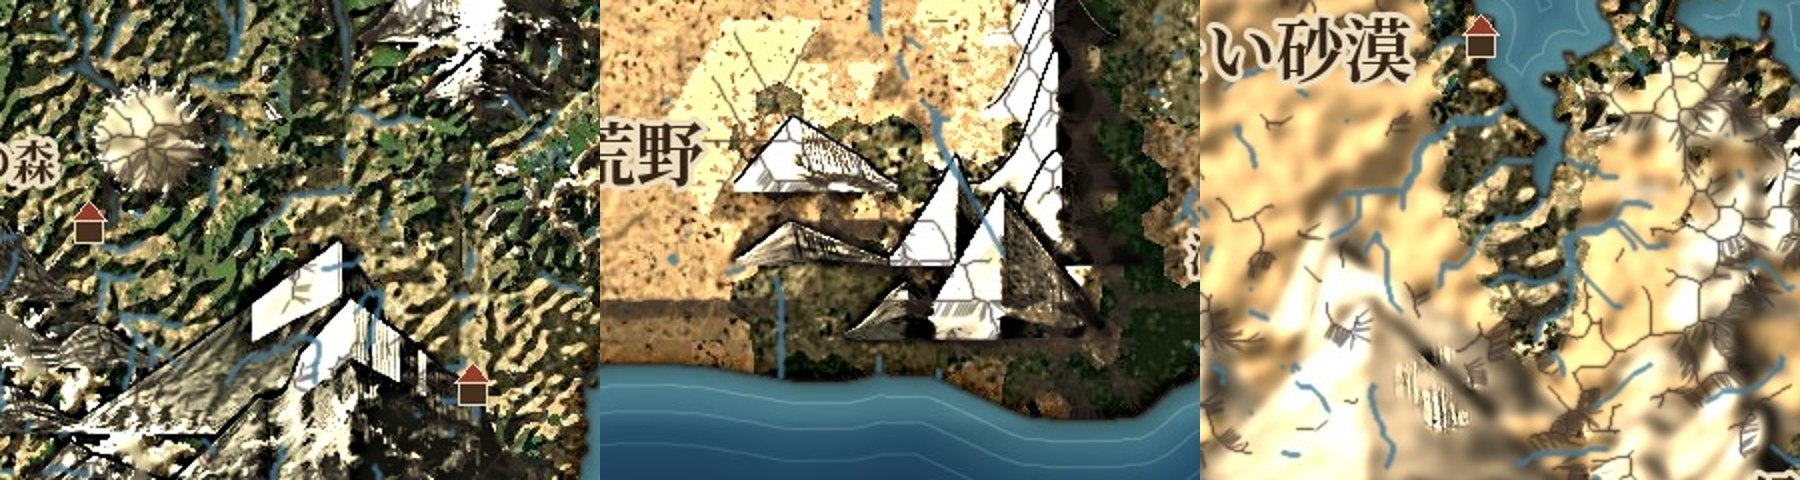
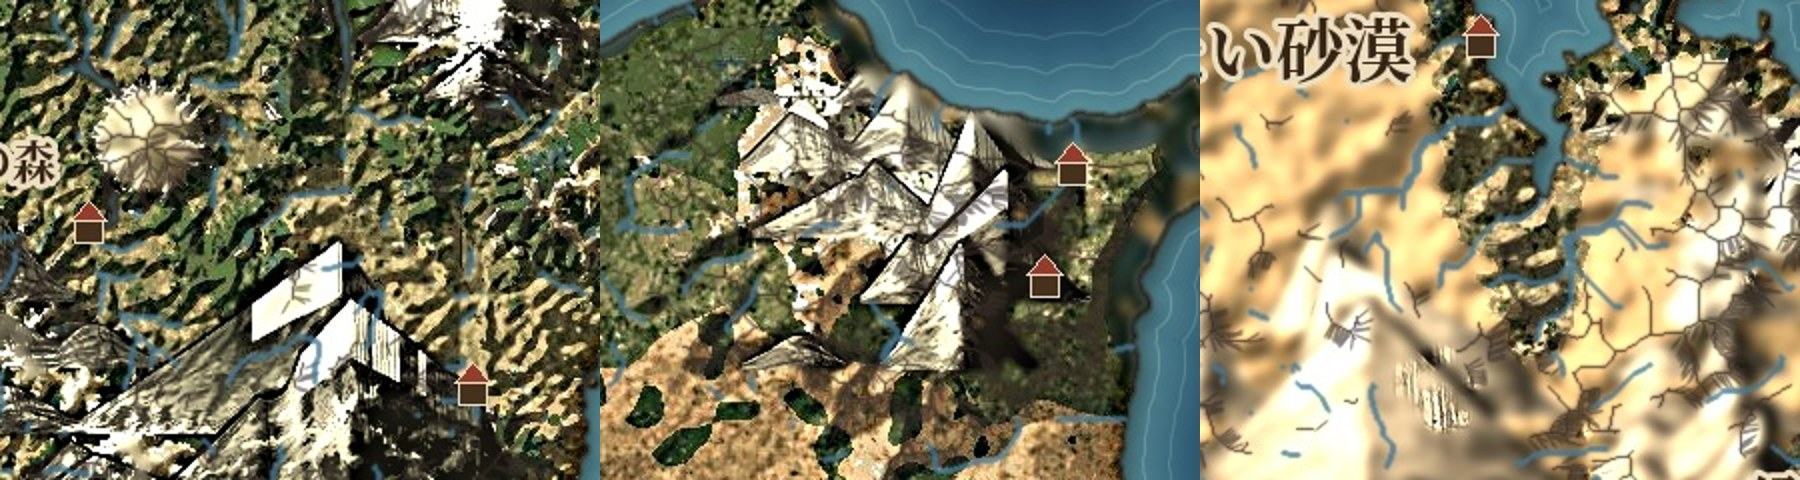
検証: 自作枠をハニカム地図から簡易生成に差し替え
Claude-Session: https://claude.ai/code/session_01NNF75WtqSrNc5QxPaYtfZJ

Changed region(s): [[0.3111, 0.0, 0.6844, 1.0]]

diff --git a/docs/apps/fantasy-war/mapstyle23.html b/docs/apps/fantasy-war/mapstyle23.html
@@ -11,36 +11,36 @@ table{border-collapse:collapse;width:100%;font-size:13px}td,th{border:1px solid 
 </style></head><body><main>
 <p><a href="./">← 管理ページ</a> / <a href="mapstyle22.html">浅瀬を明るくする</a></p>
 <h1>3つの生成器で最新処理を検証</h1>
-<div class="card"><b>概要</b>: Azgaar・PWG・自作の3つで世界を1枚ずつ作り、今の処理(地表→山→稜線つき仕上げ→色彩加算)を<b>世界ごとの手調整なし</b>で当てました。<b>3つとも最後まで通り、処理は1枚あたり約8〜11秒・最大メモリ約770MBで、重くありません</b>。ただし絵の出来にはばらつきがあります(下記)。</div>
+<div class="card"><b>概要</b>: Azgaar・PWG・簡易生成(私が書いた約70行の生成プログラム)の3つで世界を1枚ずつ作り、今の処理(地表→山→稜線つき仕上げ→色彩加算)を<b>世界ごとの手調整なし</b>で当てました。<b>3つとも最後まで通り、処理は1枚あたり約8〜11秒・最大メモリ約770MBで、重くありません</b>。ただし絵の出来にはばらつきがあります(下記)。</div>
 <h2>出来た絵(色彩加算前)</h2>
 <div class="card"><img src="mapstyle/gv/ver_az.jpg" alt="Azgaar"><p class="sub">Azgaar(陸が65%と多く、冷たい砂漠のクリーム色が広い。山はぼやけ気味)</p></div>
 <div class="card"><img src="mapstyle/gv/ver_pwg.jpg" alt="PWG"><p class="sub">PWG(3つの中で一番まとまっている。ただし一部の山に白い四角)</p></div>
-<div class="card"><img src="mapstyle/gv/ver_own.jpg" alt="自作"><p class="sub">自作(六角のマスが粗く、縁がギザギザ。山は白い三角の塊)</p></div>
+<div class="card"><img src="mapstyle/gv/ver_simple.jpg" alt="簡易生成"><p class="sub">簡易生成(「二つの大陸」型。海岸は滑らか。山は白い三角の塊。気候の偏りが少ない)</p></div>
 <h2>時間とメモリ(このクラウド機での実測・各1回)</h2>
 <div class="card"><table>
-<tr><th>段階</th><th>Azgaar</th><th>PWG</th><th>自作</th></tr>
-<tr><td>世界を作る</td><td>約3.5秒(約1.7万セル・メモリ約77MB)</td><td>画面生成待ち約29秒+書き出しで計約77秒(ソフト描画・メモリ約246MB)</td><td>約0.5秒(73回やり直し)</td></tr>
-<tr><td>データ形式への変換</td><td>1.8秒</td><td>0.5秒</td><td>1.5秒</td></tr>
-<tr><td>地表(段階5)</td><td>2.8秒</td><td>2.4秒</td><td>1.9秒</td></tr>
-<tr><td>山(段階14)</td><td>3.5秒</td><td>2.1秒</td><td>2.6秒</td></tr>
-<tr><td>仕上げ(稜線・海・枠)</td><td>4.4秒</td><td>3.0秒</td><td>3.3秒</td></tr>
+<tr><th>段階</th><th>Azgaar</th><th>PWG</th><th>簡易生成</th></tr>
+<tr><td>世界を作る</td><td>約3.5秒(約1.7万セル・メモリ約77MB)</td><td>画面生成待ち約29秒+書き出しで計約77秒(ソフト描画・メモリ約246MB)</td><td>約0.7秒</td></tr>
+<tr><td>データ形式への変換</td><td>1.8秒</td><td>0.5秒</td><td>不要(直接作る)</td></tr>
+<tr><td>地表(段階5)</td><td>2.8秒</td><td>2.4秒</td><td>2.1秒</td></tr>
+<tr><td>山(段階14)</td><td>3.5秒</td><td>2.1秒</td><td>2.1秒</td></tr>
+<tr><td>仕上げ(稜線・海・枠)</td><td>4.4秒</td><td>3.0秒</td><td>4.0秒</td></tr>
 <tr><td>色彩加算</td><td>0.2秒</td><td>0.2秒</td><td>0.2秒</td></tr>
 <tr><td><b>処理の合計</b></td><td><b>約11秒</b></td><td><b>約8秒</b></td><td><b>約8秒</b></td></tr></table>
 <p class="sub">処理側の最大メモリは3つとも約770MB(山の段階が最大)。重いのは処理ではなく、PWGの世界作りです(ブラウザのソフト描画のため)。iPhoneでの実測はしていません。</p></div>
 <h2>汎用性の評価(私の目視。判断はユーザーに)</h2>
-<div class="card"><img src="mapstyle/gv/ver_crops.jpg" alt="拡大"><p class="sub">拡大(左=PWG、中=自作、右=Azgaar)</p>
+<div class="card"><img src="mapstyle/gv/ver_crops.jpg" alt="拡大"><p class="sub">拡大(左=PWG、中=簡易生成、右=Azgaar)</p>
 <ul>
 <li><b>通った点</b>: 3つとも、手調整なしの初期値で最後まで動いた。海・岸・川・稜線・枠・ラベルは3つとも出た。</li>
-<li><b>弱点1(処理側)</b>: 山が、高さがほぼ平らに頭打ちのデータ(PWG・自作)で、<b>直線の辺を持つ白い三角や四角</b>になった(拡大の左・中)。山の絵の描き方が「なだらかな山並み」を前提にしているため、と見ています(推測)。</li>
-<li><b>弱点2(データ側)</b>: 自作は六角マスが約23画素と粗く、縁と群系の境がギザギザ。しかも砂漠が陸の約4割と偏る(生成器の癖)。処理の問題ではなく、データの細かさの問題。</li>
+<li><b>弱点1(処理側)</b>: 山が、PWGと簡易生成の両方で、<b>直線の辺を持つ白い三角や四角</b>の塊になった(拡大の左・中)。簡易生成は高さが滑らかなので、「高さが平らに頭打ち」説は当たらず、<b>山の絵の描き方そのもの</b>の癖と見直しました(訂正)。</li>
+<li><b>弱点2(データ側)</b>: 簡易生成は川・風と雨・国の自然境界・資源がなく、国は乱数の点からの塗り分け。気候は緯度とノイズだけ。見た目の検証用に限り、シミュレーターの土台には不足。</li>
 <li><b>弱点3</b>: Azgaarは国境の線が多く、雪の上の細い網目に見える。冷たい砂漠と氷河が広く、全体がクリーム色で山のコントラストが弱い。</li>
 <li><b>色彩加算</b>: 世界5用のプリセットを3枚にそのままかけた(平均で255段階中7〜10ほど変化)。他の世界用の調整はしていないので、効果の良し悪しは未評価。</li></ul></div>
 <h2>限界・未確認</h2>
 <div class="card"><ul class="sub">
-<li>各1枚だけ(統計にならない)。Azgaarの種は記録していない。PWGは種5101、自作は種100。</li>
+<li>各1枚だけ(統計にならない)。Azgaarの種は記録していない。PWGは種5101、簡易生成は型1(二つの大陸)。</li>
 <li>見た目の評価は目視のみで、数値の物差しは使っていない。</li>
 <li>色彩加算は世界5用の基準のまま。弱点1の山の直しは未着手。</li>
-<li>自作の群系は Azgaar の12区分へ私が対応づけた(砂漠→熱い砂漠、高山→ツンドラ など)。この対応で見た目が変わる。</li></ul></div>
+<li>最初の版はハニカム地図(world.js)を自作枠に使いましたが、構想から外れるため、簡易生成に差し替えました。PWGの群系28種→12区分は私が寄せた対応で、適切さは未確認。</li></ul></div>
 <h2>道具(次から同じ検証を1本で回せる)</h2>
-<div class="card"><p>手順は <a href="mapstyle/tools/README.md">README</a>。書き出し: <a href="mapstyle/tools/export_az.cjs">export_az.cjs</a> / <a href="mapstyle/tools/export_pwg.cjs">export_pwg.cjs</a> / <a href="mapstyle/tools/export_own.cjs">export_own.cjs</a>。形式そろえ: <a href="mapstyle/tools/rasterize.py">rasterize.py</a> / <a href="mapstyle/tools/pwg_convert.py">pwg_convert.py</a>。処理: <a href="mapstyle/tools/run_pipeline.py">run_pipeline.py</a>(時間とメモリを timing.json に記録)。</p></div>
+<div class="card"><p>手順は <a href="mapstyle/tools/README.md">README</a>。書き出し: <a href="mapstyle/tools/export_az.cjs">export_az.cjs</a> / <a href="mapstyle/tools/export_pwg.cjs">export_pwg.cjs</a> / <a href="mapstyle/tools/export_simple.py">export_simple.py</a>。形式そろえ: <a href="mapstyle/tools/rasterize.py">rasterize.py</a>(Azgaar) / <a href="mapstyle/tools/pwg_convert.py">pwg_convert.py</a>(PWG)。処理: <a href="mapstyle/tools/run_pipeline.py">run_pipeline.py</a>(時間とメモリを timing.json に記録)。</p></div>
 </main></body></html>

diff --git a/docs/apps/fantasy-war/mapstyle/tools/export_simple.py b/docs/apps/fantasy-war/mapstyle/tools/export_simple.py
@@ -1,0 +1,70 @@
+# 簡易生成: 画素に直接描く世界(約70行)。世界の型10種(SPEC)。川・国の自然境界・資源は無い(見た目の検証用)。
+# 使い方: python3 export_simple.py <型0〜9> <出力ディレクトリ>   → world-data.png と world-map.jpg
+import numpy as np, cv2, os, json, sys
+from PIL import Image
+from scipy import ndimage as ndi
+W,Hh=1400,900
+def fbm(shape,scale,oct=5,seed=0):
+    r=np.random.RandomState(seed); acc=np.zeros(shape); amp=1; tot=0
+    for o in range(oct):
+        s=max(2,int(scale/(2**o))); small=r.rand(shape[0]//s+2,shape[1]//s+2)
+        acc+=amp*cv2.resize(small,(shape[1],shape[0]),interpolation=cv2.INTER_CUBIC); tot+=amp; amp*=.5
+    return acc/tot
+# 世界の型: 名前, 大陸の塊(位置x,y,半径), 陸の割合, 気温の補正, 湿り気の補正, 山の強さ
+SPEC=[
+ ('一つの大陸',[(0.5,0.5,330)],0.34,0.0,0.0,1.0),
+ ('二つの大陸',[(0.27,0.5,240),(0.72,0.48,260)],0.33,0.0,0.0,1.0),
+ ('群島',[(0.2,0.3,110),(0.4,0.65,130),(0.62,0.35,120),(0.8,0.68,110),(0.5,0.2,90),(0.12,0.7,90)],0.26,0.05,0.1,0.7),
+ ('三日月の大陸',[(0.35,0.35,170),(0.5,0.55,170),(0.65,0.72,170),(0.3,0.58,130)],0.30,0.0,0.0,1.1),
+ ('巨大な一つの大陸',[(0.5,0.5,430)],0.46,0.0,-0.05,1.0),
+ ('寒冷な世界',[(0.4,0.5,280),(0.78,0.4,180)],0.34,-0.28,0.0,1.1),
+ ('乾燥した世界',[(0.45,0.5,320),(0.85,0.6,150)],0.36,0.2,-0.28,0.9),
+ ('湿潤な熱帯の世界',[(0.3,0.45,230),(0.68,0.55,250)],0.35,0.22,0.3,0.8),
+ ('山脈の多い世界',[(0.38,0.5,260),(0.72,0.5,240)],0.34,0.0,0.0,1.7),
+ ('内海のある大陸',[(0.38,0.5,170),(0.62,0.5,170),(0.5,0.3,150),(0.5,0.72,150)],0.36,0.0,0.05,1.1),
+]
+def make(i,outdir):
+    name,blobs,lf,dt,dm,ms=SPEC[i]; sd=100+i*17
+    yy,xx=np.mgrid[0:Hh,0:W]
+    f=np.zeros((Hh,W))
+    for (bx,by,r) in blobs: f+=np.exp(-(((xx-bx*W)**2+(yy-by*Hh)**2)/(2*(r*0.62)**2)))
+    n=fbm((Hh,W),230,6,sd)
+    f=f/ max(f.max(),1)+0.55*(n-0.5)
+    edge=np.clip(np.minimum(np.minimum(xx,W-1-xx)/60,np.minimum(yy,Hh-1-yy)/50),0,1); f=f*edge-(1-edge)*0.5
+    th=np.quantile(f,1-lf); land=f>=th
+    land=ndi.binary_opening(land,iterations=2); lab,nl=ndi.label(land)
+    if nl>1:
+        sz=ndi.sum(land,lab,range(1,nl+1)); keep=[k+1 for k,s in enumerate(sz) if s>=350]; land=np.isin(lab,keep)
+    dist=ndi.distance_transform_edt(land); dsea=ndi.distance_transform_edt(~land)
+    # 山岳: 帯状に連なる山(低周波の帯 × 尾根ノイズ)
+    ridge=1-np.abs(2*fbm((Hh,W),150,5,sd+1)-1); band=fbm((Hh,W),340,3,sd+2)
+    mraw=(band**1.0)*(0.45+0.55*np.clip(ridge,0,1))*np.clip(dist/22,0,1)
+    tf=min(0.09*ms,0.22); q=np.quantile(mraw[land],1-tf*2.2)
+    mm=np.clip((mraw-q)/max(mraw[land].max()-q,1e-6),0,1)**(0.85 if ms<=1 else 0.55)
+    base=20+np.clip(dist/45,0,1)*12+9*(fbm((Hh,W),90,4,sd+3)-0.5)+ 68*mm
+    Hc=np.where(land,np.clip(base,20.5,100),np.clip(20-dsea/6,2,19.5))
+    # 気温・湿り気 → 生物群系(Azgaar番号)
+    lat=yy/Hh; T=dt+0.95*(1-np.abs(lat-0.5)*2)+0.08*(fbm((Hh,W),200,3,sd+4)-0.5)-0.4*np.clip((Hc-20)/80,0,1)
+    M=dm+0.55*fbm((Hh,W),180,4,sd+5)+0.45*np.exp(-dsea*0)*np.clip(1-dist/260,0,1)*0.6+0.25
+    BI=np.zeros((Hh,W),int)
+    hot=T>0.62; warm=(T>0.38)&~hot; cool=(T>0.15)&~warm&~hot
+    BI[hot&(M<0.45)]=1; BI[hot&(M>=0.45)&(M<0.65)]=3; BI[hot&(M>=0.65)&(M<0.8)]=5; BI[hot&(M>=0.8)]=7
+    BI[warm&(M<0.4)]=4; BI[warm&(M>=0.4)&(M<0.62)]=6; BI[warm&(M>=0.62)&(M<0.8)]=6; BI[warm&(M>=0.8)]=8
+    BI[cool&(M<0.4)]=2; BI[cool&(M>=0.4)]=9
+    BI[(T<=0.15)]=10; BI[(T<=0.0)]=11
+    BI[land&(Hc<24)&(M>0.7)&(BI>0)&(T>0.1)]=12
+    BI[~land]=0; BI[land&(BI==0)]=4
+    # 国(ボロノイ)
+    rs=np.random.RandomState(sd); ys,xs=np.nonzero(land); idx=rs.choice(len(ys),11,replace=False)
+    seeds=np.stack([ys[idx],xs[idx]],1); ST=np.zeros((Hh,W),int)
+    d2=((ys[:,None]-seeds[None,:,0])**2+(xs[:,None]-seeds[None,:,1])**2); ST[ys,xs]=d2.argmin(1)+1
+    os.makedirs(outdir,exist_ok=True)
+    dat=np.zeros((Hh,W,3),np.uint8); dat[...,0]=np.clip(Hc*2.55,0,255).astype(np.uint8); dat[...,1]=BI; dat[...,2]=ST
+    Image.fromarray(dat).save(outdir+'/world-data.png')
+    pal={0:(80,140,190),1:(214,190,120),2:(190,180,150),3:(190,180,90),4:(150,180,90),5:(70,140,70),6:(90,150,70),7:(40,120,60),8:(60,120,90),9:(70,110,90),10:(180,190,180),11:(240,245,250),12:(100,150,130)}
+    img=np.zeros((Hh,W,3),np.uint8)
+    for b,c in pal.items(): img[BI==b]=c
+    Image.fromarray(img).save(outdir+'/world-map.jpg',quality=85)
+    return {'name':name,'land':float(land.mean()),'mount':float(((Hc>=66)&land).sum()/land.sum()),'biomes':{int(k):round(float(((BI==k)&land).sum()/land.sum()),3) for k in np.unique(BI[land])}}
+if __name__=='__main__':
+    import time; t=time.time(); r=make(int(sys.argv[1]),sys.argv[2]); r['gen_sec']=round(time.time()-t,2); print(json.dumps(r,ensure_ascii=False))

diff --git a/docs/apps/fantasy-war/mapstyle/tools/rasterize.py b/docs/apps/fantasy-war/mapstyle/tools/rasterize.py
@@ -1,12 +1,10 @@
 # セル(点)ごとの値のJSON → 1400×900 の world-data.png(R=高さ×2.55, G=群系0〜12, B=国)
-# 使い方: python3 rasterize.py <az|own> <入力json> <出力ディレクトリ>
+# 使い方: python3 -I rasterize.py az <入力json> <出力ディレクトリ>   (Azgaarのセル点 → 画素。PWGは pwg_convert.py、簡易生成は export_simple.py が直接作る)
 import sys, json, os, numpy as np
 from PIL import Image
 from scipy.interpolate import LinearNDInterpolator, NearestNDInterpolator
 from scipy import ndimage as ndi
 W, Hh = 1400, 900
-# 自作の群系(0海,1氷雪,2ツンドラ,3亜寒帯林,4寒冷草原,5砂漠,6温暖草原,7地中海性,8温帯林,9温帯海洋林,10サバナ,11熱帯雨林,12高山) → Azgaar番号
-OWN2AZ = {0:0, 1:11, 2:10, 3:9, 4:4, 5:1, 6:4, 7:6, 8:6, 9:8, 10:3, 11:7, 12:10}
 def warp(shape, seed, amp):
     rs = np.random.RandomState(seed)
     out = []
@@ -16,7 +14,7 @@ def warp(shape, seed, amp):
 def run(kind, src, outdir):
     d = json.load(open(src)); x = np.array(d['x'], float); y = np.array(d['y'], float)
     gx, gy = np.meshgrid(np.arange(W), np.arange(Hh))
-    if kind == 'az':
+    if True:
         sx, sy = (W - 1) / d['W'], (Hh - 1) / d['H']; px, py = x * sx, y * sy; ox = oy = 0
         h = np.array(d['h'], float); bio = np.array(d['biome']); st = np.array(d['state'])
         pts = np.stack([px, py], 1)
@@ -28,27 +26,6 @@ def run(kind, src, outdir):
         BI = NearestNDInterpolator(pts, bio)(ix, iy); ST = NearestNDInterpolator(pts, st)(ix, iy)
         land = Hi >= 20
         H = np.where(land, Hi, np.minimum(Hi, 19.5))
-    else:
-        s = (W - 1) / d['W']; px, py = x * s, y * s
-        oy = (Hh - d['H'] * s) / 2; py = py + oy
-        pts = np.stack([px, py], 1)
-        el = np.array(d['elev'], float); lnd = np.array(d['land']).astype(bool)
-        el = np.where(lnd, np.maximum(el, 1.0), np.minimum(el, -1.0))
-        Ei = LinearNDInterpolator(pts, el, fill_value=-4000.0)(gx, gy); Ei = np.where(np.isnan(Ei), -4000.0, Ei)
-        Ei = ndi.gaussian_filter(Ei, 1.0)
-        land = Ei > 0
-        wx, wy = warp(Ei.shape, 5, 9)
-        ix = np.clip(gx + wx, 0, W - 1); iy = np.clip(gy + wy, 0, Hh - 1)
-        bio = np.array([OWN2AZ[int(b)] for b in d['biome']]); bio[~lnd] = 0
-        BI = NearestNDInterpolator(pts, bio)(ix, iy)
-        cont = np.array(d['cont']); ST = NearestNDInterpolator(pts, cont % 250 + 1)(ix, iy)
-        # 陸なのに群系0の画素は最寄りの陸群系で埋める
-        z = land & (BI == 0)
-        if z.any():
-            idx = ndi.distance_transform_edt(BI == 0, return_distances=False, return_indices=True); BI = np.where(z, BI[idx[0], idx[1]], BI)
-        lm = Ei[land]; q = np.quantile(lm, 0.94); mx = lm.max()
-        H = np.where(land, np.where(Ei <= q, 20.3 + 45.7 * np.clip(Ei, 0, None) / q, 66 + 34 * np.clip((Ei - q) / max(mx - q, 1), 0, 1)),
-                     np.clip(19.5 + Ei / 250, 2, 19.5))
     BI = np.where(land, BI, 0)
     os.makedirs(outdir, exist_ok=True)
     dat = np.zeros((Hh, W, 3), np.uint8)

diff --git a/docs/apps/sekai-hex/design/STATE.md b/docs/apps/sekai-hex/design/STATE.md
@@ -84,7 +84,7 @@
 - 【試作 11-18 ユーザー指摘】積雪がぼやけ、Geminiの雪原と山は稜線とその枝に沿った灰色の細い線で描く(線がないのは決定的欠陥)。山の線も同じ描き方との見立て。→ 標高から尾根を抜き出して稜線と斜面の細い線を引く処理を作成。印象: 世界6の雪原に稜線の線が出て近づいた。まだ違う: 線が少なく枝分かれの木のよう(Geminiは短い平行線が密)、世界7はほぼ見えない、三角の峰の線は稜線と未接続。3枚・目視。ページ: apps/fantasy-war/mapstyle20.html。次: 線を平行線で密にし、三角の峰にも同じ描き手を使う(未実施)。
 - 【試作 11-19 ユーザー指示】稜線を山の描き方(稜線+片側の一定の陰+端を消す、量はGeminiを見て調整)にし、全体を暗くしない。色は地形と無関係に、最初に色の配分表を決めて置く。最後に独立処理【色彩加算】(ランドマーク・絵を置いた後に全体の色構成から配分を計算して微調整。いつでも外せる・変えられる)。→ 稜線は世界6の雪原で短い平行線になり近づいた。色彩加算(iro_kasan.py+iro_presets.json、10区分の配分表はGeminiの絵から測定)は最初の版が派手な斑で失敗、弱めた版は効果が海だけ(色の配分の差: 世界6 0.36→0.20、世界7 0.64→0.56、世界5 0.36→0.53と悪化)。3枚・目視。ページ: apps/fantasy-war/mapstyle21.html。次: 海と陸で別の表にし、寄り方ごとの表を作る(未実施)。
 - 【試作 11-19 ユーザー指示】今の絵に足す形で浅瀬だけ明るく。海の格子の値(5〜49、大半が最浅)が高い所を浅瀬とみなし、海岸80画素以内に限って明るさを足した。分かった事: 値20以上の海は海全体の約4〜5割で、広い四角い範囲(世界を縮めた名残と推測)。本当の深さのデータとは言えない。印象: 岸の周りが明るくなり近づいた。悪い: 範囲の縁に直線の境目が残る。3枚・目視。ページ: apps/fantasy-war/mapstyle22.html。【追記 ユーザー案】前と改善の平均(足し方を半分、約27%)にした版は境目が目立たなくなり浅瀬の明るさも残った(境目はうっすら残る)。これを標準にする。
-- 【検証 11-19 ユーザー指示】Azgaar・PWG・自作(world.js)で1枚ずつ世界を作り、最新処理(地表→山→稜線つき仕上げ→色彩加算)を手調整なしで当てた。3つとも通過。処理は約8〜11秒・最大メモリ約770MB(重くない)。世界作りはAzgaar約3.5秒/PWG約77秒(ソフト描画)/自作約0.5秒。弱点: 山がPWG・自作で直線辺の白い三角/四角(処理側・推測は平らに頭打ちの高さ)、自作は六角マス約23画素で粗く砂漠が約4割(データ側)、Azgaarは国境線が多く全体がクリーム色。色彩加算は世界5用のまま未評価。各1枚・目視。道具: apps/fantasy-war/mapstyle/tools/(README・export_*・rasterize・pwg_convert・run_pipeline、時間とメモリをtiming.jsonに記録)。ページ: apps/fantasy-war/mapstyle23.html。次: 山の白い三角を直す。
+- 【検証 11-19 ユーザー指示】Azgaar・PWG・簡易生成(約70行・画素に直接描く自作。最初に使ったハニカム地図は構想から外れるため差し替え)で1枚ずつ世界を作り、最新処理(地表→山→稜線つき仕上げ→色彩加算)を手調整なしで当てた。3つとも通過。処理は約8〜11秒・最大メモリ約770MB(重くない)。世界作りはAzgaar約3.5秒/PWG約77秒(ソフト描画)/簡易生成約0.7秒。弱点: 山がPWG・簡易生成で直線辺の白い三角/四角(山の描き方の癖。データ原因説は訂正)、簡易生成は川・風と雨・自然境界の国・資源が無い(国は乱数点のボロノイ・気候は緯度とノイズのみ)ので見た目検証用、Azgaarは国境線が多く全体がクリーム色。色彩加算は世界5用のまま未評価。各1枚・目視。ユーザー見立て: シミュレートの決め方(地形データ付き世界地図でどう決定するか)が先で、シミュレーターは恐らく自作。地図の採用はその後。道具: apps/fantasy-war/mapstyle/tools/(README・export_az/pwg/simple・rasterize・pwg_convert・run_pipeline、timing.json)。ページ: apps/fantasy-war/mapstyle23.html。次: 山の白い三角を直す。
 - 【未決】ランドマークの表現(種類・数・選び方・絵か立体か)。世界の層の見せ方=分かりやすさ+芸術性の融合(11-16)。
 
 ---

diff --git a/docs/apps/fantasy-war/mapstyle/tools/README.md b/docs/apps/fantasy-war/mapstyle/tools/README.md
@@ -1,5 +1,6 @@
-# 世界地図の最新処理を1本で回す道具(2026-11-19)
-1. 世界を書き出す(3種): `node export_az.cjs out.json`(Azgaar, :8103) / `node export_pwg.cjs <seed> <dir>`(PWG, :8101) / `node export_own.cjs <seed> out.json`(自作 world.js)
-2. world-data.png にそろえる: `python3 -I rasterize.py az|own in.json outdir` / `python3 -I pwg_convert.py <seed> outdir <h_,b_画像のdir>`
+# 世界地図の最新処理を1本で回す道具(2026-11-19・簡易生成に差し替え)
+1. 世界を作る(3種): `node export_az.cjs out.json`(Azgaar, :8103) / `node export_pwg.cjs <seed> <dir>`(PWG, :8101) / `python3 -I export_simple.py <型0〜9> <dir>`(簡易生成・約70行・画素に直接描く)
+   ※ ハニカム(world.js)は構想から外れたため使わない。
+2. world-data.png にそろえる: Azgaar= `python3 -I rasterize.py az in.json outdir` / PWG= `python3 -I pwg_convert.py <seed> outdir <h_,b_画像のdir>` / 簡易生成= export_simple.py が直接作る
 3. 最新処理: `python3 run_pipeline.py <世界dir> <出力dir> "題" "副題" [--num 99] [--iro 5]` → timing.json(各工程の秒とメモリ)
 世界dir = world-data.png(R=高さ×2.55, G=群系0〜12(Azgaar番号), B=国)+ world-map.jpg
